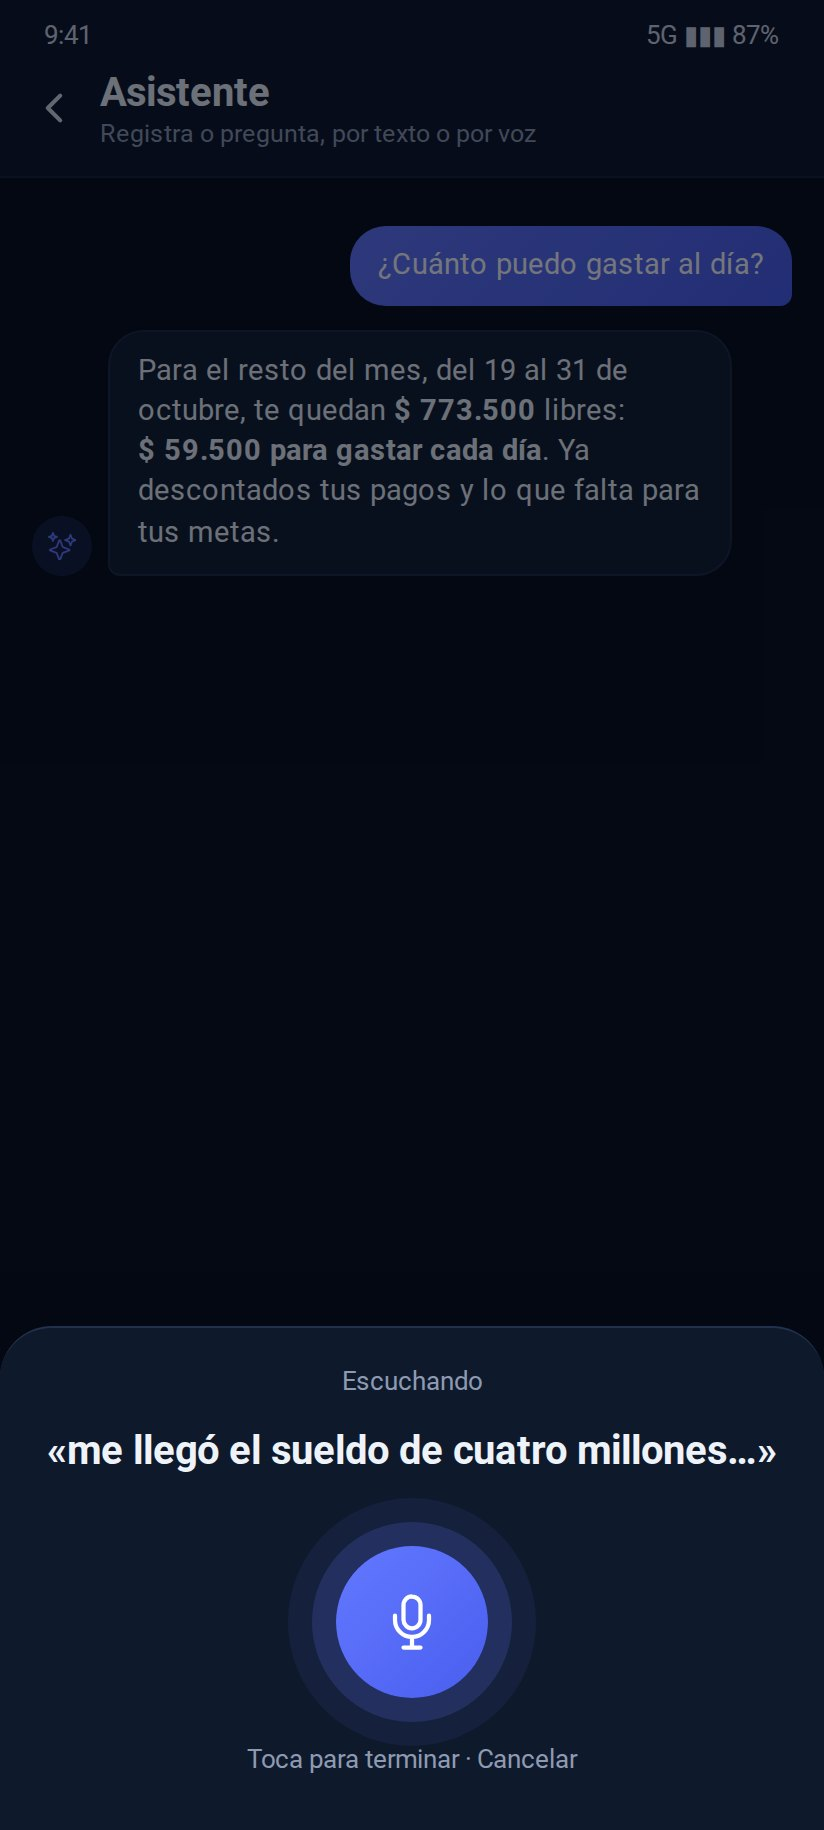
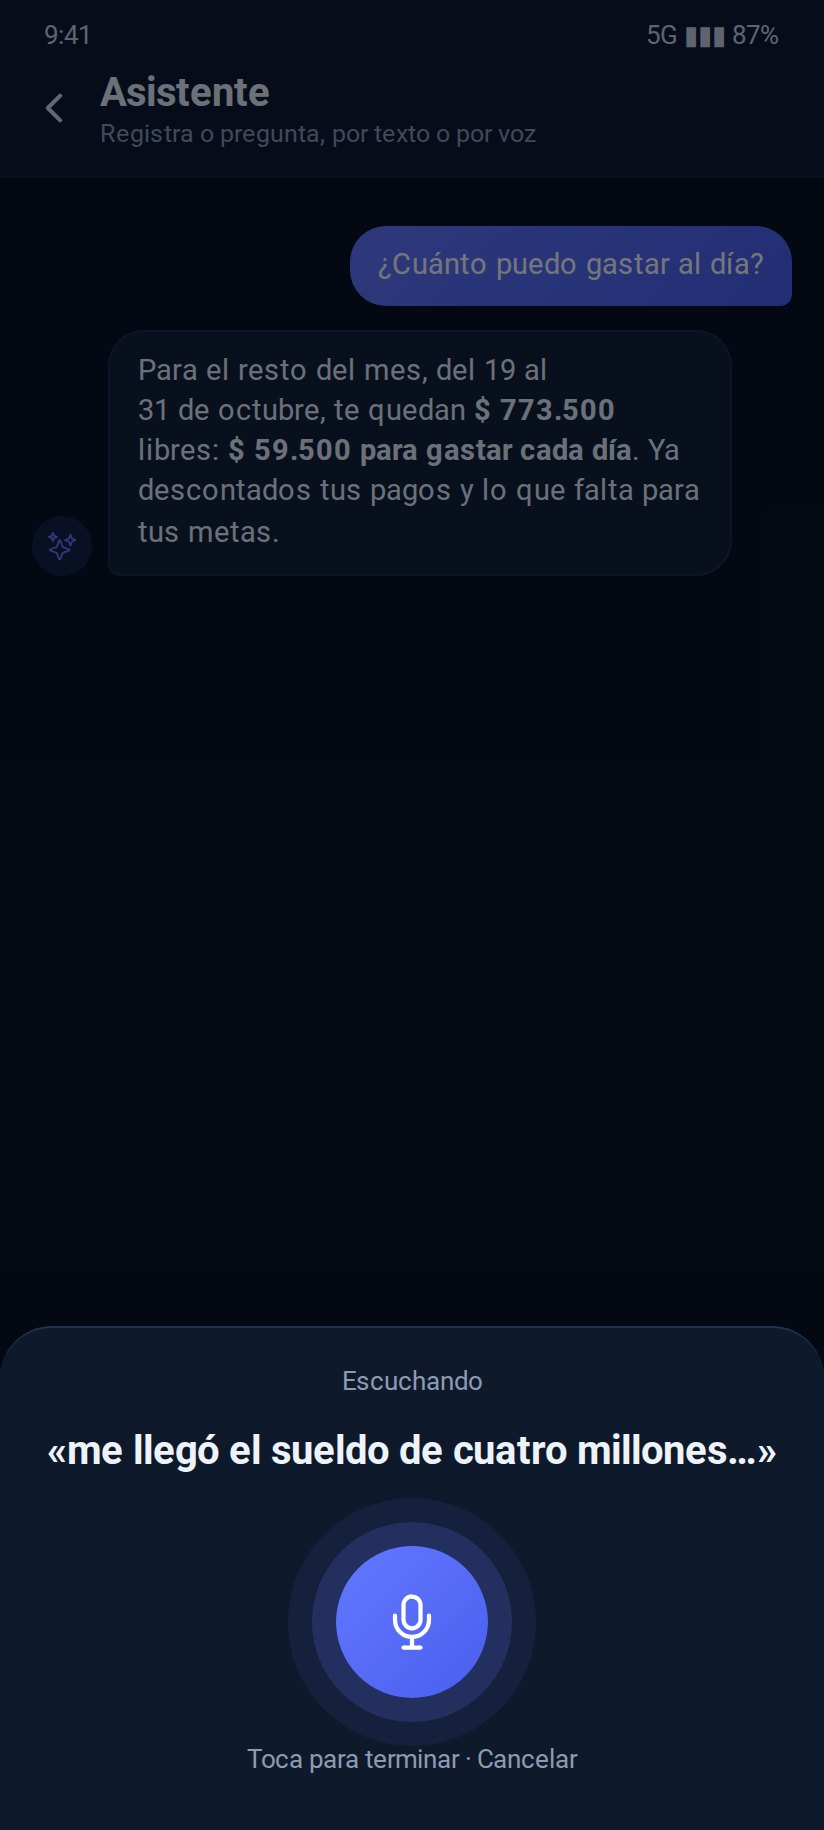
Mockups 39: wrap messages between phrases, never mid-idea
Claude-Session: https://claude.ai/code/session_01QyUqFix1SMdsKVBtd1Wz88

Changed region(s): [[0.1517, 0.1869, 0.7585, 0.2492], [0.7888, 0.218, 0.8192, 0.2492]]

diff --git a/CLAUDE.md b/CLAUDE.md
@@ -5257,6 +5257,14 @@ with testers runs; the paywall is finished after them.
   al 31 de octubre (13 días)", then what would stay free and "Eso es, para
   gastar cada día", with "Ya descontados tus pagos que vienen y lo que falta
   para tus metas" under it. Never a bare "X · Y al día". The days count today.
+- **A message wraps between its phrases, never abruptly** (Jose, 2026-10-19:
+  "Tu producto habitual · la cuenta tiene" with the "3" alone below). Two
+  ideas are two lines ("Es tu producto habitual" / "Banco Índigo tiene 3
+  productos"), never joined by "·" to wrap anywhere; a figure stays with its
+  "$" and its unit ("300 mil"), a name and a date stay whole (non-breaking
+  spaces), the bubbles and cards use `text-wrap: pretty` so no word is left
+  alone on the last line, and a row whose value is long splits into two rows
+  rather than squeezing its label.
 - **Voice**: the phone's own dictation into the same reader (`39h`).
   Assumed, not verified: offline only with the Spanish pack downloaded; on
   many phones the audio goes through Google - to say in the privacy policy.
